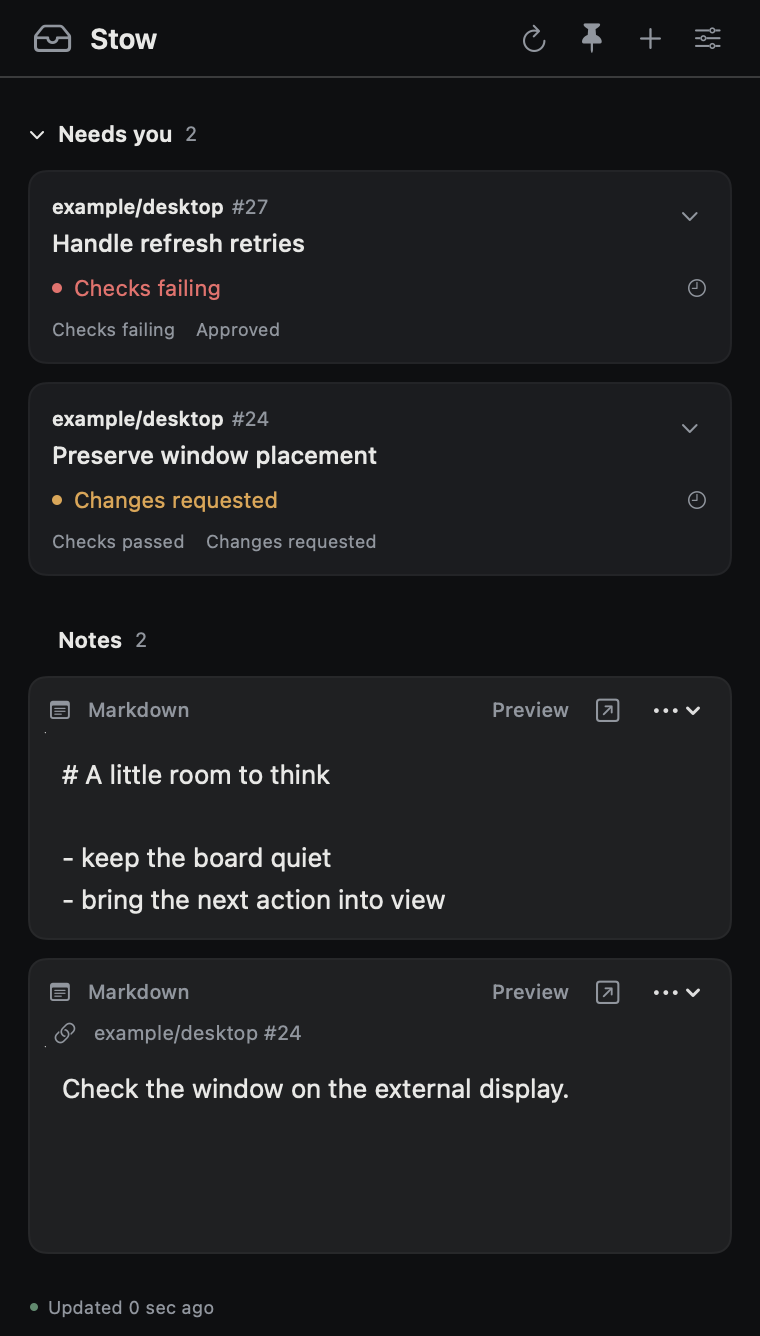
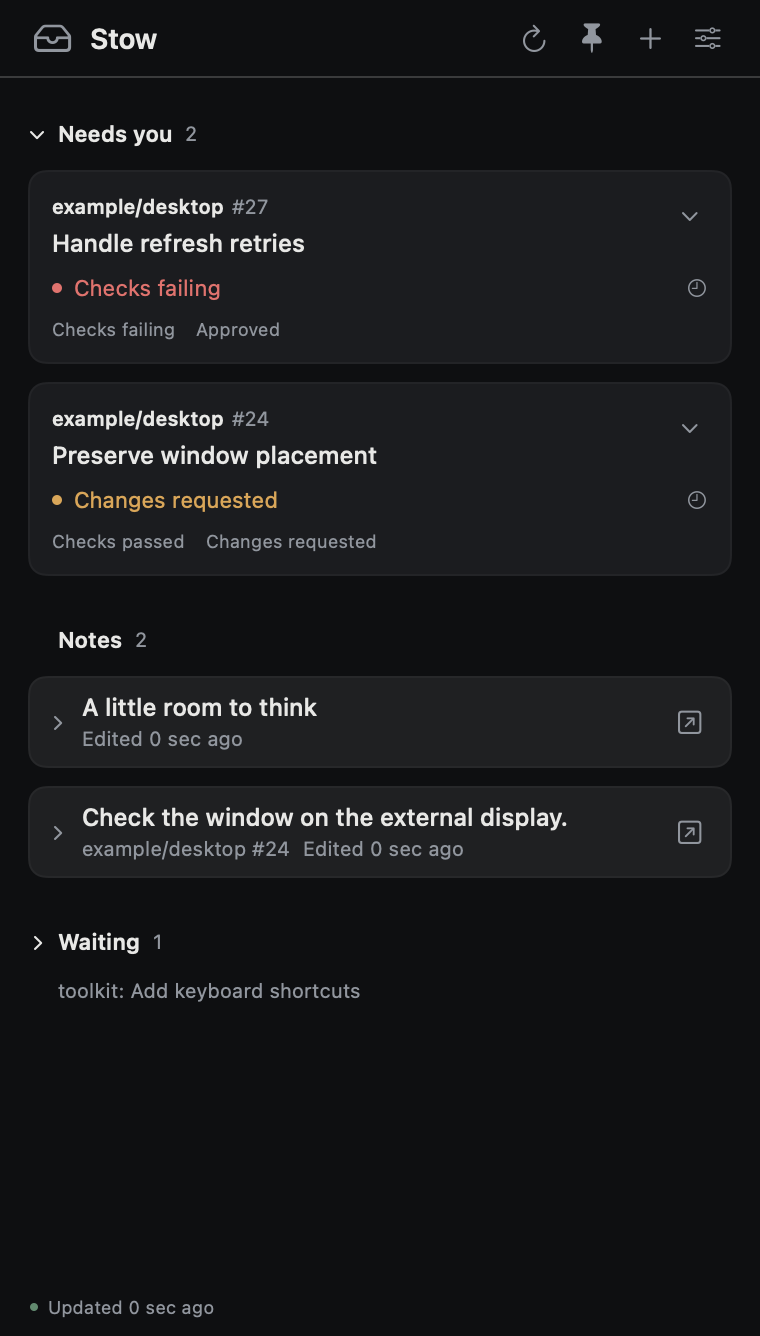
feat(notes): fold board notes into one-line rows
Board notes now show as one-line rows with their first line, linked pull
request, and last edit, plus a pop-out button. Clicking a row opens the
note inline; by default opening one closes the other, new and focused
notes open ready to type, and an open note folds back from its header.
Settings → Board can start notes expanded or allow several open at once.

diff --git a/App/NoteView.swift b/App/NoteView.swift
@@ -5,12 +5,20 @@ struct NoteView: View {
     @Bindable var store: AppStore
     let noteID: UUID
     var detached = false
+    /// Board notes can fold back into a one-line row.
+    var onCollapse: (() -> Void)?
     @State private var isPreview = false
 
     var body: some View {
         if let note = store.note(noteID) {
             VStack(alignment: .leading, spacing: 0) {
                 HStack(spacing: 8) {
+                    if let onCollapse {
+                        Button(action: onCollapse) {
+                            Image(systemName: "chevron.down").font(.stow(size: 8, weight: .semibold)).frame(width: 9)
+                        }.buttonStyle(.plain).foregroundStyle(Color.stowMuted)
+                            .accessibilityLabel("Collapse note").help("Collapse note")
+                    }
                     Label(detached ? "Note" : "Markdown", systemImage: "note.text")
                         .font(.stow(size: 10, weight: .medium)).foregroundStyle(Color.stowMuted)
                     Spacer(minLength: 0)
@@ -91,5 +99,48 @@ struct DetachedNoteLauncher: View {
                 Text("Open").font(.stow(size: 10)).foregroundStyle(Color.stowMuted)
             }.padding(12).background(Color.stowSurface, in: RoundedRectangle(cornerRadius: 8))
         }.buttonStyle(.plain).accessibilityLabel("Open detached note")
+    }
+}
+
+/// A board note folded into one line: open it inline, or pop it out into its own window.
+struct CollapsedNoteRow: View {
+    @Bindable var store: AppStore
+    let note: Note
+
+    var body: some View {
+        HStack(spacing: 8) {
+            Button {
+                store.toggleNoteExpanded(note.id)
+            } label: {
+                HStack(spacing: 8) {
+                    Image(systemName: "chevron.right").font(.stow(size: 8, weight: .semibold)).frame(width: 9)
+                        .foregroundStyle(Color.stowMuted)
+                    VStack(alignment: .leading, spacing: 2) {
+                        Text(verbatim: note.boardTitle).font(.stow(size: 12, weight: .medium)).lineLimit(1)
+                        HStack(spacing: 6) {
+                            if let reference = note.pullRequest { Text(verbatim: reference.displayName) }
+                            Text("Edited \(note.updatedAt, style: .relative) ago")
+                        }.font(.stow(size: 10)).foregroundStyle(Color.stowMuted).lineLimit(1)
+                    }
+                    Spacer(minLength: 0)
+                }.contentShape(Rectangle())
+            }
+            .buttonStyle(.plain)
+            .accessibilityLabel(note.boardTitle).accessibilityHint("Opens the note")
+            QuietIconButton(symbol: "arrow.up.right.square", label: "Detach note") { store.detachNote(note.id) }
+        }
+        .padding(.horizontal, 10).padding(.vertical, 8)
+        .background(Color.stowNote, in: RoundedRectangle(cornerRadius: 9))
+        .overlay { RoundedRectangle(cornerRadius: 9).strokeBorder(.white.opacity(0.035)) }
+    }
+}
+
+extension Note {
+    /// The first non-empty line without Markdown heading marks, for one-line rows.
+    var boardTitle: String {
+        let line = markdown.split(whereSeparator: \.isNewline)
+            .first { !$0.trimmingCharacters(in: .whitespaces).isEmpty }
+            .map { $0.trimmingCharacters(in: .whitespaces).drop { $0 == "#" }.trimmingCharacters(in: .whitespaces) }
+        return line.flatMap { $0.isEmpty ? nil : $0 } ?? "Untitled note"
     }
 }

diff --git a/App/AppStore.swift b/App/AppStore.swift
@@ -17,6 +17,9 @@ final class AppStore {
     var offersGitHubSetup = false
     var storageNeedsRecovery = false
     var expandedPRs: Set<String> = []
+    /// Board notes shown open this session; `boardLayout` decides the starting state.
+    var expandedNoteIDs: Set<UUID> = []
+    @ObservationIgnored private var lastExpandedNoteID: UUID?
     var loadingDetails: Set<String> = []
     var accessoryResults: [UUID: AccessoryResult] = [:]
     var focusNoteID: UUID?
@@ -88,6 +91,10 @@ final class AppStore {
             state.pullRequests[index].readinessIsComplete = false
         }
         ThemeController.shared.apply(state.appearance)
+        if !state.boardLayout.notesStartCollapsed {
+            let open = state.boardLayout.oneNoteOpenAtATime ? Array(state.notes.prefix(1)) : state.notes
+            expandedNoteIDs = Set(open.map(\.id))
+        }
         isLoaded = true
         if !storageNeedsRecovery {
             _ = await persist()
@@ -336,7 +343,33 @@ final class AppStore {
         return note.id
     }
 
+    func isNoteExpanded(_ id: UUID) -> Bool { expandedNoteIDs.contains(id) }
+
+    func toggleNoteExpanded(_ id: UUID) {
+        if expandedNoteIDs.contains(id) { expandedNoteIDs.remove(id) } else { expandNote(id) }
+    }
+
+    private func expandNote(_ id: UUID) {
+        if state.boardLayout.oneNoteOpenAtATime { expandedNoteIDs = [id] } else { expandedNoteIDs.insert(id) }
+        lastExpandedNoteID = id
+    }
+
+    func setNotesStartCollapsed(_ collapsed: Bool) {
+        state.boardLayout.notesStartCollapsed = collapsed
+        changed()
+    }
+
+    func setOneNoteOpenAtATime(_ enabled: Bool) {
+        state.boardLayout.oneNoteOpenAtATime = enabled
+        if enabled, expandedNoteIDs.count > 1 {
+            // Keep the note opened most recently; close the rest.
+            expandedNoteIDs = lastExpandedNoteID.map { expandedNoteIDs.contains($0) ? [$0] : [] } ?? []
+        }
+        changed()
+    }
+
     func requestFocus(_ id: UUID) {
+        expandNote(id)
         if state.collapsedSections.contains("notes") {
             state.collapsedSections.removeAll { $0 == "notes" }
             changed()
@@ -386,6 +419,7 @@ final class AppStore {
 
     func deleteNote(_ id: UUID) {
         deletedNoteIDs.insert(id)
+        expandedNoteIDs.remove(id)
         state.notes.removeAll { $0.id == id }
         let removed = state.extensionInstances.filter { $0.noteID == id }
         state.extensionInstances.removeAll { $0.noteID == id }

diff --git a/AppTests/AppStoreCancellationTests.swift b/AppTests/AppStoreCancellationTests.swift
@@ -85,6 +85,43 @@ final class AppStoreCancellationTests: XCTestCase {
         XCTAssertFalse(accepting.offersGitHubSetup)
     }
 
+    func testBoardNotesStartCollapsedOpenOneAtATimeAndOpenWhenFocused() async throws {
+        let directory = try makeDirectory()
+        defer { try? FileManager.default.removeItem(at: directory) }
+        var initial = AppState()
+        initial.githubEnabled = false
+        initial.notes = [Note(markdown: "# First"), Note(markdown: "Second"), Note(markdown: "Third")]
+        try await StateRepository(url: stateURL(directory)).save(initial)
+        let store = AppStore(stateURL: stateURL(directory), accessoryProviders: [])
+        await store.start()
+        store.stop()
+        defer { store.stop() }
+        let ids = store.state.notes.map(\.id)
+        XCTAssertTrue(store.expandedNoteIDs.isEmpty, "Board notes start as one-line rows")
+        store.toggleNoteExpanded(ids[0])
+        store.toggleNoteExpanded(ids[1])
+        XCTAssertEqual(store.expandedNoteIDs, [ids[1]], "Opening a note closes the open one")
+        store.setOneNoteOpenAtATime(false)
+        store.toggleNoteExpanded(ids[2])
+        XCTAssertEqual(store.expandedNoteIDs, [ids[1], ids[2]])
+        store.setOneNoteOpenAtATime(true)
+        XCTAssertEqual(store.expandedNoteIDs, [ids[2]], "The most recently opened note stays open")
+        let created = store.addNote("New thought")
+        XCTAssertEqual(store.expandedNoteIDs, [created], "A new note opens ready to type")
+        store.requestFocus(ids[0])
+        XCTAssertTrue(store.isNoteExpanded(ids[0]))
+        store.deleteNote(ids[0])
+        XCTAssertFalse(store.isNoteExpanded(ids[0]))
+
+        store.setNotesStartCollapsed(false)
+        XCTAssertTrue(await store.flush())
+        let relaunched = AppStore(stateURL: stateURL(directory), accessoryProviders: [])
+        await relaunched.start()
+        relaunched.stop()
+        defer { relaunched.stop() }
+        XCTAssertEqual(relaunched.expandedNoteIDs.count, 1, "Expanded start still opens one note at a time")
+    }
+
     func testDisablingQueuedAccessoryPreventsItsProviderFromStarting() async throws {
         try await checkQueuedAccessoryRemoval(deleteOwner: false)
     }

diff --git a/Sources/StowCore/BoardLayout.swift b/Sources/StowCore/BoardLayout.swift
@@ -15,17 +15,25 @@ public struct BoardLayout: Codable, Equatable, Sendable {
     /// Pull requests shown in each section before "Show more"; 0 shows every card.
     public var visiblePullRequests: Int
     public var notesCanCollapse: Bool
+    /// Board notes show as one-line rows until opened.
+    public var notesStartCollapsed: Bool
+    /// Opening a board note closes the one that was open.
+    public var oneNoteOpenAtATime: Bool
 
     public init(
         order: [Section] = defaultOrder, visiblePullRequests: Int = defaultVisiblePullRequests,
-        notesCanCollapse: Bool = false
+        notesCanCollapse: Bool = false, notesStartCollapsed: Bool = true, oneNoteOpenAtATime: Bool = true
     ) {
         self.order = Self.normalized(order)
         self.visiblePullRequests = visiblePullRequests
         self.notesCanCollapse = notesCanCollapse
+        self.notesStartCollapsed = notesStartCollapsed
+        self.oneNoteOpenAtATime = oneNoteOpenAtATime
     }
 
-    private enum CodingKeys: String, CodingKey { case order, visiblePullRequests, notesCanCollapse }
+    private enum CodingKeys: String, CodingKey {
+        case order, visiblePullRequests, notesCanCollapse, notesStartCollapsed, oneNoteOpenAtATime
+    }
 
     public init(from decoder: any Decoder) throws {
         let container = try decoder.container(keyedBy: CodingKeys.self)
@@ -39,6 +47,8 @@ public struct BoardLayout: Codable, Equatable, Sendable {
                 forKey: .visiblePullRequests, in: container, debugDescription: "Pull request count out of range")
         }
         notesCanCollapse = try container.decodeIfPresent(Bool.self, forKey: .notesCanCollapse) ?? false
+        notesStartCollapsed = try container.decodeIfPresent(Bool.self, forKey: .notesStartCollapsed) ?? true
+        oneNoteOpenAtATime = try container.decodeIfPresent(Bool.self, forKey: .oneNoteOpenAtATime) ?? true
     }
 
     /// Moves a section up (negative) or down (positive) one place at a time; edges are left alone.

diff --git a/App/SettingsView.swift b/App/SettingsView.swift
@@ -143,9 +143,17 @@ private struct BoardSettingsView: View {
             Toggle(
                 "Let Notes collapse",
                 isOn: Binding(get: { layout.notesCanCollapse }, set: { store.setNotesCanCollapse($0) }))
+            Toggle(
+                "Notes start collapsed",
+                isOn: Binding(get: { layout.notesStartCollapsed }, set: { store.setNotesStartCollapsed($0) }))
+            Toggle(
+                "Open one note at a time",
+                isOn: Binding(get: { layout.oneNoteOpenAtATime }, set: { store.setOneNoteOpenAtATime($0) }))
             HStack {
-                Text("Defaults: Needs you, Notes, Waiting; 3 pull requests per section; Notes always open.")
-                    .font(.stow(size: 11)).foregroundStyle(.secondary).fixedSize(horizontal: false, vertical: true)
+                Text(
+                    "Defaults: Needs you, Notes, Waiting; 3 pull requests per section; the Notes section stays open; notes start collapsed and open one at a time."
+                )
+                .font(.stow(size: 11)).foregroundStyle(.secondary).fixedSize(horizontal: false, vertical: true)
                 Spacer()
                 Button("Reset") { store.resetBoardLayout() }.disabled(layout == BoardLayout())
             }

diff --git a/App/BoardView.swift b/App/BoardView.swift
@@ -145,8 +145,10 @@ struct BoardView: View {
                 Group {
                     if note.isDetached {
                         DetachedNoteLauncher(note: note) { store.detachNote(note.id) }
+                    } else if store.isNoteExpanded(note.id) {
+                        NoteView(store: store, noteID: note.id) { store.toggleNoteExpanded(note.id) }
                     } else {
-                        NoteView(store: store, noteID: note.id)
+                        CollapsedNoteRow(store: store, note: note)
                     }
                 }.id(note.id)
             }

diff --git a/Tests/StowCoreTests/BoardPreferencesTests.swift b/Tests/StowCoreTests/BoardPreferencesTests.swift
@@ -68,6 +68,8 @@ final class BoardPreferencesTests: XCTestCase {
         XCTAssertEqual(layout.order, [.needsYou, .notes, .waiting])
         XCTAssertEqual(layout.visiblePullRequests, 3)
         XCTAssertFalse(layout.notesCanCollapse)
+        XCTAssertTrue(layout.notesStartCollapsed)
+        XCTAssertTrue(layout.oneNoteOpenAtATime)
     }
 
     func testBoardLayoutKeepsEachKnownSectionOnceInSavedOrder() throws {

diff --git a/docs/verification.md b/docs/verification.md
@@ -25,7 +25,7 @@ CI uses Xcode 16.4 on `macos-15`, runs package and hosted Debug app tests, and b
 - Edit a managed Markdown file in another editor, including an atomic save; verify source reload, detected conflict copies, clean external deletion, and immediate quit. Export notes and a full backup; restore into disposable state and check the retained old folder, restored windows, pins, and appearance. Reopen external-editor files after restoration.
 - In a disposable state directory, test corrupt and unsupported state. Confirm writes stay blocked, explicit recovery creates a backup, and failed recovery preserves the original. Test an unwritable destination without changing normal user storage.
 - Check keyboard navigation, VoiceOver labels, text scaling, contrast, a 320-point board width, and a 260-point detached note width.
-- Verify appearance changes, theme import/export, opacity, Reduce transparency, and text-editing preservation using the [appearance checklist](appearance.md#manual-checks). Collapse and expand Needs you and Waiting, then relaunch to check persistence. In Settings → Board, reorder sections, change the cards shown before Show more, and allow Notes to collapse; creating a note should expand Notes again. Scroll a long board and confirm section titles stay pinned.
+- Verify appearance changes, theme import/export, opacity, Reduce transparency, and text-editing preservation using the [appearance checklist](appearance.md#manual-checks). Collapse and expand Needs you and Waiting, then relaunch to check persistence. In Settings → Board, reorder sections, change the cards shown before Show more, and allow Notes to collapse; creating a note should expand Notes again. Scroll a long board and confirm section titles stay pinned. Open and close board notes, check one-at-a-time and the start-collapsed setting, and pop a note out from its row.
 - Run on macOS 14 and a current macOS version. A newer build host does not prove minimum-version runtime behavior. Test Intel hardware when available; a universal binary alone does not prove its runtime behavior.
 
 ## evidence

diff --git a/README.md b/README.md
@@ -49,7 +49,7 @@ For a local package, unzip `Stow.zip` and move `Stow.app` to Applications. See [
 - Paste a canonical `https://github.com/example/project/pull/42` URL outside the editor to pin a pull request. Text following one URL becomes an attached note. Other or ambiguous text stays intact as a note.
 - Use the header pin to keep the board on top or let it sit behind other windows. Detached notes keep their own pin settings.
 - Detach a note from its actions menu. Use **Command-0** or the Dock icon to reopen the board.
-- The board shows **Needs you**, **Notes**, then **Waiting**. Section titles stay visible while you scroll, and each pull request section shows three cards before **Show more**. Click **Needs you** or **Waiting** to collapse it; Stow remembers the choice. Change the order, the card count, and whether Notes can collapse in Settings → **Board**.
+- The board shows **Needs you**, **Notes**, then **Waiting**. Section titles stay visible while you scroll, and each pull request section shows three cards before **Show more**. Click **Needs you** or **Waiting** to collapse it; Stow remembers the choice. Notes show as one-line rows: click one to open it, opening another closes it, and the pop-out button gives a note its own window. Change the order, the card count, and how notes open in Settings → **Board**.
 - On first launch, Stow asks before using GitHub; change it later in Settings. Install [GitHub CLI](https://cli.github.com/) and authenticate outside Stow with `gh auth login --hostname github.com`. Stow uses that existing login; it does not extract or save a token. Use **Choose gh…** if automatic discovery fails.
 - Click a pull request to load details. Stow reads GitHub state; it does not merge, review, or modify pull requests.
 
